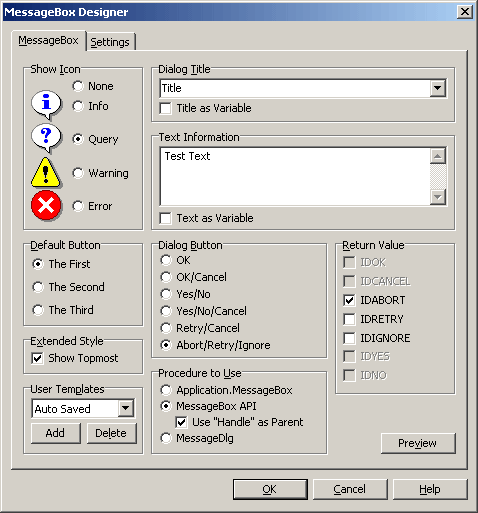
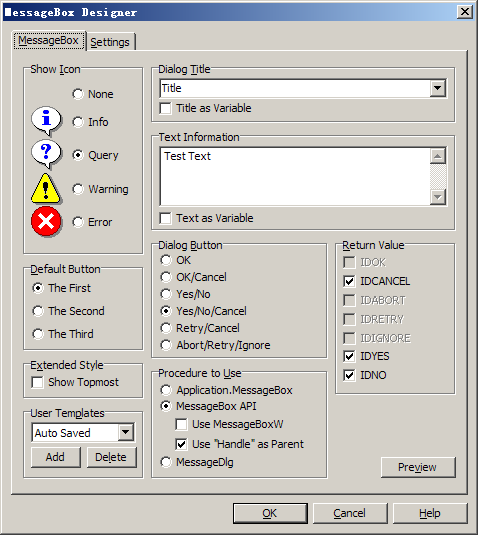
* [Help] Update Help Files.

Changed region(s): [[0.0, 0.0, 0.9958, 0.9981], [0.9372, 0.0, 0.9958, 0.0624]]

diff --git a/trunk/cnwizards/Help/CnWizards_ENU/wizards/msgboxwizards.htm b/trunk/cnwizards/Help/CnWizards_ENU/wizards/msgboxwizards.htm
@@ -41,6 +41,8 @@
   <li>
   <p class="text" align="left"><b>Procedure to Use</b>: Which procedure will be used for implemetation. Both MessageBox and MessageDlg supported.</li>
   <li>
+  <p class="text" align="left"><b>Use MessageBoxW</b>: Use Unicode version API.</li>
+  <li>
   <p class="text" align="left"><b>Uses Handle as Parent</b>: If this was selected,  Handle will be the first parameter in MessageBox API, otherwise 0 will be used.</li>
   <li>
   <p class="text" align="left"><b>Preview</b>: Preview the designed message dialog.</li>

diff --git a/trunk/cnwizards/Help/CnWizards_ENU/other/credits.htm b/trunk/cnwizards/Help/CnWizards_ENU/other/credits.htm
@@ -798,7 +798,7 @@ Supporters</p>
   muroachanf, YuZhongXue, tahhkj, laiguorong, XiaoXia, Authur, IISUSER,
   space, moremay, BuYeRen, jtdd, rise, zhuojianyou, XiaoMao, Derod, YaLaXiangBo,
   takaya, Vair, XieEDeHelloWorld, YanZhaoCun, xiongzhifei, FanXianYi, SongDongli, mysluo,
-  XiaoFan, wuyunnet, chinaplaycar, zmguozi, junhome, Learu, xqzhle</td>
+  XiaoFan, wuyunnet, chinaplaycar, zmguozi, junhome, Learu, xqzhle, Lei Jingtang</td>
   </tr>
   <tr> 
     <td width="82" class="tabletext">Poland</td>
